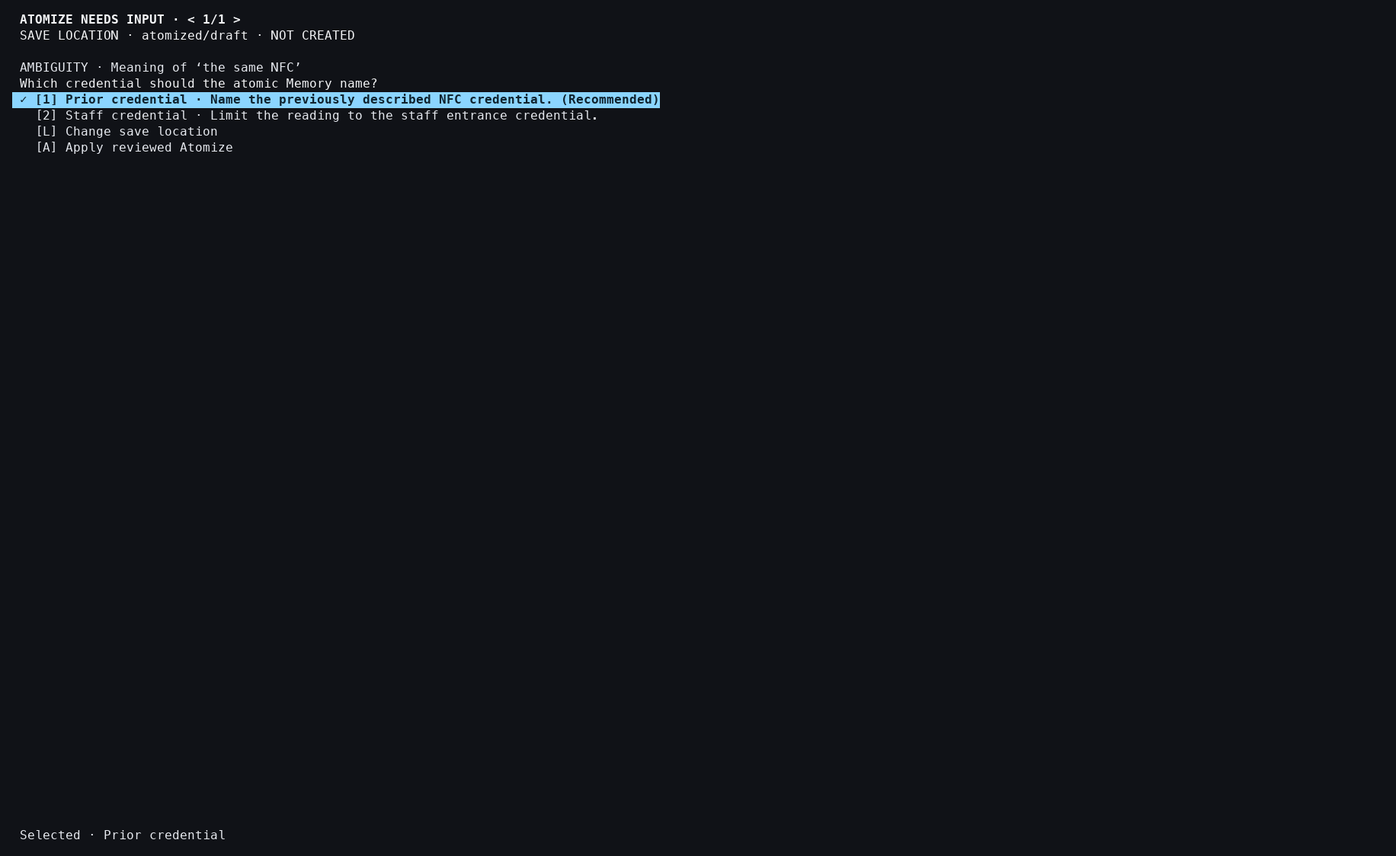
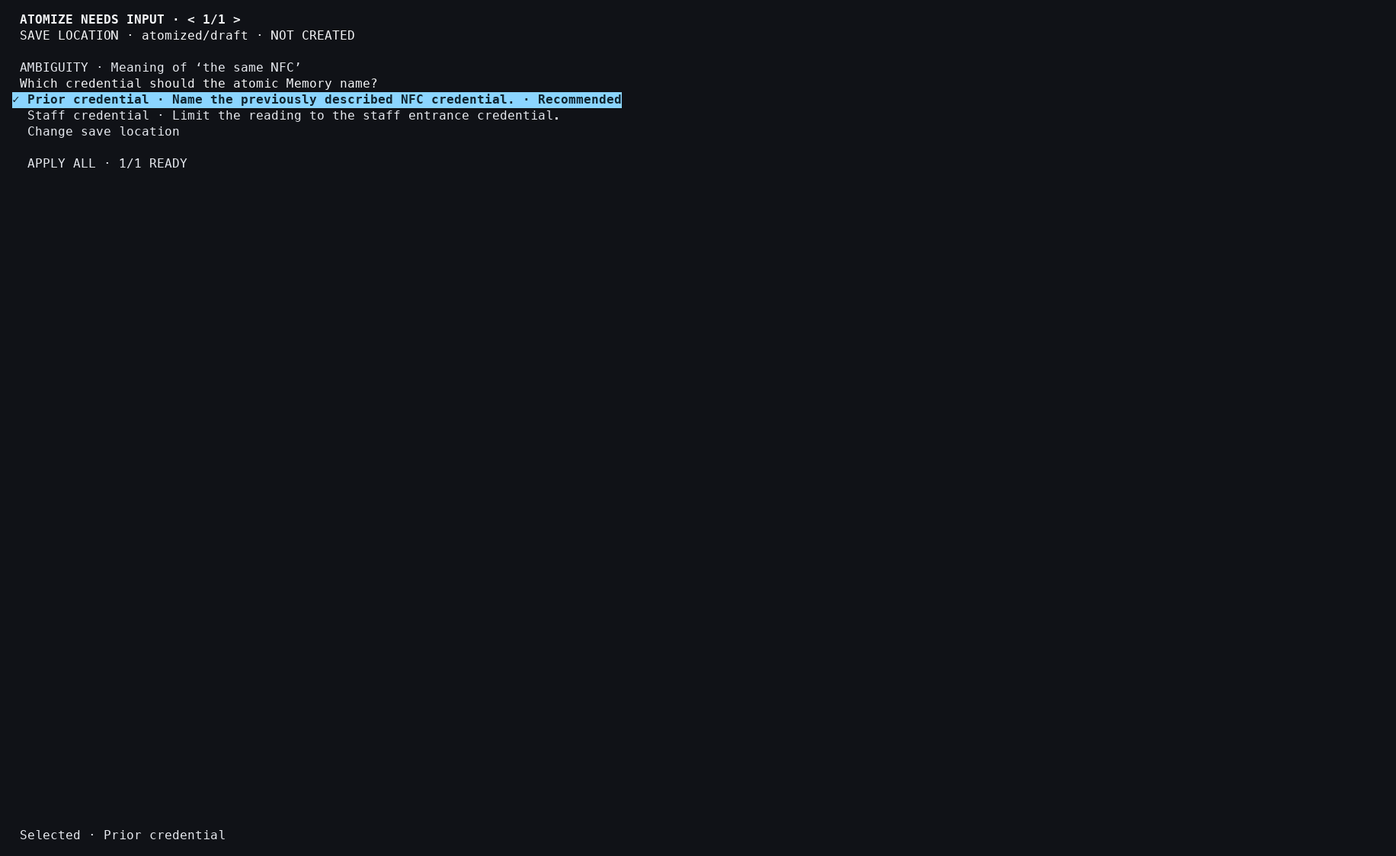
Complete Enter-only compact execution integration
The shared compact shell had been reduced to unnumbered arrow/Enter rows, but the Resolution Session caller still supplied removed Defer and exact-command callbacks. Atomize's retained TTY evidence also exercised the obsolete number, L, and A shortcuts, leaving the common behavior inconsistent across consumers.

Remove those stale caller arguments so Meld, Update, Forget, Sever, and Atomize all use the process-local choice path and the separated Apply row as the single confirmation. Record that Resolve follows the same commandless compact boundary, keep legacy Defer/Preserve domain and CLI forms for compatibility, and verify that closing a compact choice does not call the durable draft saver.

Refresh the Atomize Save Location and Apply captures with arrow/Enter-only interaction. Merge and Dedun retain their distinct frozen-case confirmation contract; explicit Review continues to own the retained report.

Changed region(s): [[0.0311, 0.0934, 0.4667, 0.1868]]

diff --git a/tests/test_compact_resolution_shell.py b/tests/test_compact_resolution_shell.py
@@ -6,6 +6,9 @@ from prompt_toolkit.output import DummyOutput
 from memcommit.interfaces.tui.workbenches.resolution.compact_shell import (
     run_compact_resolution_decisions,
 )
+from memcommit.interfaces.tui.workbenches.resolution.session_shell import (
+    run_resolution_workbench_shell,
+)
 from memcommit.interfaces.tui.components.save_location import SaveLocationView
 from memcommit.resolution_workbench import (
     ResolutionItem,
@@ -135,6 +138,26 @@ def test_old_choice_and_action_shortcuts_have_no_compact_action():
         "access": "access:recommended",
     }
     assert actions == []
+
+
+def test_compact_choice_is_discarded_on_close_instead_of_saved_as_a_draft():
+    saved: list[tuple[str, str | None, str]] = []
+
+    with create_pipe_input() as pipe_input:
+        pipe_input.send_text("\x1b[B\r\x1b")
+        action = run_resolution_workbench_shell(
+            _view(),
+            compact_decisions=True,
+            draft_saver=lambda uid, option_uid, comment: saved.append(
+                (uid, option_uid, comment)
+            ),
+            app_input=pipe_input,
+            app_output=DummyOutput(),
+            require_tty=False,
+        )
+
+    assert action.kind == "CLOSE"
+    assert saved == []
 
 
 def test_compact_decisions_edit_the_exact_save_location_inline():

diff --git a/docs/screenshots/atomize-compact-execution-20260822/capture.py b/docs/screenshots/atomize-compact-execution-20260822/capture.py
@@ -111,8 +111,7 @@ def _run_child() -> None:
             build_continue_action=lambda _uid: (
                 ResolutionWorkbenchAction(kind="ACCEPT") if selected else None
             ),
-            build_simple_action=lambda kind: ResolutionWorkbenchAction(kind=kind),
-            continue_label=lambda: "Apply reviewed Atomize",
+            continue_label=lambda: "Apply",
             destination=SaveLocationView(
                 value=destination,
                 state="NOT CREATED",
@@ -196,11 +195,11 @@ def main() -> None:
         _settle(child)
         _snapshot(recorder, "01-entry-compact-decision")
 
-        child.send("1")
+        child.send("\r")
         _settle(child)
         _snapshot(recorder, "02-choice-staged")
 
-        child.send("l")
+        child.send("\x1b[B" * 2 + "\r")
         _settle(child)
         _snapshot(recorder, "03-save-location-input")
 
@@ -212,7 +211,7 @@ def main() -> None:
         _settle(child, seconds=0.8)
         _snapshot(recorder, "05-updated-location-compact-return")
 
-        child.send("a")
+        child.send("\x1b[B" * 3 + "\r")
         _settle(child, seconds=0.8)
         _snapshot(recorder, "06-applied-receipt")
 

diff --git a/memcommit/interfaces/tui/workbenches/resolution/session_shell.py b/memcommit/interfaces/tui/workbenches/resolution/session_shell.py
@@ -5012,9 +5012,7 @@ def run_resolution_workbench_shell(
             selected_option=selected_compact_option,
             stage_option=stage_compact_option,
             build_continue_action=compact_continue_action,
-            build_simple_action=lambda kind: semantic_action(kind),
             continue_label=compact_continue_label,
-            turn_command_review=turn_command_review,
             destination=destination,
             app_input=app_input,
             app_output=app_output,

diff --git a/docs/operation-consistency-matrix.md b/docs/operation-consistency-matrix.md
@@ -108,8 +108,8 @@ candidate list does not yet prove that a contract is inapplicable.
 | `EFFECT-01` | Receipt, checkpoint, operation-unit Undo/Redo, and rollback | `SHARED CONTRACT` with explicit applicability | add, atomize, branch, checkout -b, chunk, clear, delete, distill Apply, edit, embed, forget Apply, ground edits, import, init, meld Apply, merge, reference, replace, revert, sever Apply, translate materialization, update Apply; plus profile/config/protection mutations requiring a documented non-Undo boundary | A success receipt covers the complete command effect; multi-Context effects form one unit; failed publication exposes no partial success; Undo support or exclusion is explicit | Checkpoint payload, crash-recovery mechanism, irreversible external effect, and whether an operation is intentionally outside Undo | Semantic Apply Undo rationale and several vertical slices; Replace verifies atomic multi-Context publication and one operation UID across every per-Context checkpoint, with rollback on late write failure. Atomize in-place verifies one-checkpoint Undo/Redo, synchronous receipt compensation, late success, and exact interrupted recovery. Ground workspace genesis is an atomic six-Context require-new batch and intentionally outside both Undo stacks. Later Ground edits share one root-scoped command identity; local LIFO Undo restores the touched lane plus root, rejects drift, advances revision, and is excluded from global `mem undo` | `MIGRATING` | Decide Ground-local redo and complete the repository-wide durable-write/crash-window inventory |
 | `TUI-01` | Endpoint setup and frozen operation shape | `SHARED MECHANICS` | atomize, audit, compare, embed, meld, merge, sever, update; investigate branch, check-conformance, distill, forget, query, search, and translate where they select multiple roles or modes | One visible role-based setup; selection returns process-local typed values only; setup performs no provider call or durable mutation; final operation validation remains authoritative | Role symmetry/direction, selectable catalog, independent per-role range/memory focus, fixed endpoint, fresh result name, and modes | Merge, Audit, Compare, Update, and Meld use `interfaces.tui.components.endpoint_setup`. Meld verifies mode-dependent A+B→C/A→B roles, exact direct-Memory focus, independent descendant reach, and a confirmed process-local new Result name without provider, session, or durable creation | `MIGRATING` | Remove the shared screen's remaining `commands.tui_primitives` dependency, then characterize Atomize without changing its measured Study flow |
 | `TUI-02` | Selection, focus topology, back navigation, and writable-input protection | `SHARED MECHANICS` | Every interactive operation: atomize, audit, branch, checkout, compare, delete, diff, distill, elaborate, embed, eval, find, fit, forget, ground, help, impact, import, init, meld, merge, profile, provider, query, rationale, reference, replace, revert, review, search, sever, share, summarize, switch, trace, translate, update, plus interactive variants discovered by the callable catalog | Shared focus controller reports movement/boundary/consumption; Escape has an operation-owned exit path; Backspace is not stolen from writable input; visible frame order determines traversal | Surface topology, defaults, labels, operation actions, and editor validation | Shared core, frame, focus, scroll, input, choice, targeting, and selection owners are inventoried below. Find and Replace compose the shared Context range, horizontal choice, frame, and surface-focus mechanics without adding command-local variants. The full Context picker now has one neutral implementation used by Switch, operation-owned Context browsing, Ground direct selection, and command-hosted consumers; Switch-specific selection-to-request translation lives in its interface adapter. Several unrelated command-hosted screens still remain | `MIGRATING` | Complete the prompt-toolkit application/import inventory, then retire parallel mechanics by component family rather than by visual resemblance |
-| `TUI-03` | Execution decision workbench | `SHARED MECHANICS` + `OPERATION OWNED` semantic projection | atomize, forget, meld, merge, sever, update, and dedun; Audit/Impact/Review use read-only or adaptive report variants | An execution route shows only the frozen context and controls needed for outstanding judgments; `Left`/`Right` permits out-of-order issue navigation, `Up`/`Down` exposes the keyboard target, `Enter` or `1`–`9` stages choices, and one Continue may submit the complete staged set; Apply revalidates that exact set and success exits to a compact receipt | Detail or compact context, issue/conflict types, choices, typed recommendation, defaults, custom-response permission, whole-set strategy, Apply effect, and saved schema | The [execution lifecycle](execution-receipt-review-lifecycle-design-rationale.md) and [180×52 compact-decision capture](screenshots/compact-execution-decisions-20260822/README.md) verify the shared report-free surface for Update/Forget/Meld/Sever, including arrow-only staging, numeric acceleration, aggregate Continue, exact-command review, and provider-free Defer. Decision-free local routes auto-advance under the ownership-aware policy. Terminal report viewing is routed through explicit Impact/Review instead of reopening the execution workbench after success | `MIGRATING` | Move remaining legacy response persistence out of Review and prohibit success paths from rendering the full execution report |
-| `TUI-04` | Exact command review | `SHARED CONTRACT` + `SHARED MECHANICS` | dedup, edit, embed, ground, import, meld START/TURN, merge, reference, replace, resolve, sever START/TURN, update START/TURN, Profile rename/removal; Search SHOW is a receipt-only read action | One interface-neutral immutable argv/effects value and one escaped renderer; a consequential command uses focused `Enter`, cancellation publishes no command effect, and typing in an editable command is a separate non-approving setup change | Ground and Search dispatch allowlisted argv; deterministic mutations apply an adjacent frozen typed plan/action; semantic START returns typed setup and TURN executes a revision-bound response without shell recursion; Edit and Embed map the common always-editable argument field bidirectionally to visible controls while keeping the operation prefix fixed; final Meld/Update/Sever Apply and Summarize/Distill/Atomize remain commandless | [Consumer-boundary rationale](exact-command-review-consumer-boundary-design-rationale.md), [interactive semantic command rationale](interactive-semantic-command-boundary-design-rationale.md), and [editable proposed-command rationale](editable-proposed-command-design-rationale.md); type identity, compact rendering, rebuilding, stale-session rejection, execution binding, cancellation, deterministic Apply, and receipt-only Search SHOW are verified | `VERIFIED` | Keep the global role/binding/rebuild classification authoritative; require an operation adapter and adjacent typed execution boundary before admitting another consumer |
+| `TUI-03` | Execution decision workbench | `SHARED MECHANICS` + `OPERATION OWNED` semantic projection | atomize, forget, meld, resolve, sever, update, plus the separate merge and dedun deterministic variants; Audit/Impact/Review use read-only or adaptive report variants | An execution route shows only the frozen context and controls needed for outstanding judgments; `Left`/`Right` permits out-of-order issue navigation, `Up`/`Down` exposes the keyboard target, and `Enter` selects or activates one separated Apply row. Typed recommendations are checked defaults, numeric choice keys are inert, close saves no new draft, and Apply revalidates the exact process-local set before a compact receipt | Detail or compact context, issue/conflict types, choices, typed recommendation, defaults, custom-response permission, whole-set strategy, Apply effect, and saved schema | The [execution lifecycle](execution-receipt-review-lifecycle-design-rationale.md) and [180×52 compact-decision capture](screenshots/compact-execution-decisions-20260822/README.md) verify the shared report-free surface for Update/Forget/Meld/Sever/Atomize/Resolve, including arrow-only staging, typed defaults, a visually separated Apply, no direct Apply/Defer rows, no saved close draft, and no redundant exact-command confirmation. Decision-free local routes auto-advance under the ownership-aware policy. Terminal report viewing is routed through explicit Impact/Review instead of reopening the execution workbench after success | `MIGRATING` | Keep Merge/Dedun's frozen-case variant separate until its exact-review and bulk-choice contract is deliberately migrated; prohibit success paths from rendering the full execution report |
+| `TUI-04` | Exact command review | `SHARED CONTRACT` + `SHARED MECHANICS` | dedup, edit, embed, ground, import, meld START/TURN, merge, reference, replace, sever START/TURN, update START/TURN, Profile rename/removal; Search SHOW is a receipt-only read action | One interface-neutral immutable argv/effects value and one escaped renderer; a consequential command uses focused `Enter`, cancellation publishes no command effect, and typing in an editable command is a separate non-approving setup change | Ground and Search dispatch allowlisted argv; deterministic mutations apply an adjacent frozen typed plan/action; semantic START returns typed setup and TURN executes a revision-bound response without shell recursion; Edit and Embed map the common always-editable argument field bidirectionally to visible controls while keeping the operation prefix fixed; Resolve and final Meld/Update/Sever/Atomize Apply use their separated compact Apply row instead of this second screen | [Consumer-boundary rationale](exact-command-review-consumer-boundary-design-rationale.md), [interactive semantic command rationale](interactive-semantic-command-boundary-design-rationale.md), and [editable proposed-command rationale](editable-proposed-command-design-rationale.md); type identity, compact rendering, rebuilding, stale-session rejection, execution binding, cancellation, deterministic Apply, and receipt-only Search SHOW are verified | `VERIFIED` | Keep the global role/binding/rebuild classification authoritative; require an operation adapter and adjacent typed execution boundary before admitting another consumer |
 | `TUI-05` | Semantic/read-only Viewer, clipboard, and result verification | `SHARED MECHANICS` | compare, diff, find, help detail, impact (including Distill/Elaborate), query, review reports (including applied Distill/Elaborate), search, show, summarize, trace; Resolution operations reuse only the compatible Viewer layer | Viewer belongs to explicit report inspection, Impact, or post-application Review; completing an executable request never opens it solely because stdout is a TTY. Neutral report chrome, deterministic copy, bounded windows, and read-only exit remain shared | Typed document/detail model, citations, exact spans, page size/eligibility, verification state, lineage/diff semantics, source-member grouping, and copy scope exposed by the operation | Query and provider-free Find retain their typed result behavior. Distill and Elaborate use the shared Viewer under explicit Impact and checkpoint-backed Review. Compare returns an analysis receipt and Trace returns a lineage receipt by default; their full Viewer/document routes remain explicit through Review, `--snapshot`, `--plain`, or `--tui` as applicable | `MIGRATING` | Audit remaining direct commands for TTY-only result transitions while retaining explicit report-inspection routes |
 | `HELP-01` | Stable operation discovery and interface-specific syntax | `SHARED CONTRACT` + `SHARED MECHANICS` | All 62 operations | One canonical summary/flow/execution/effect/range/use-when record plus optional typed details with stable operation-local IDs; CLI, TUI, Python, and agent projections do not invent semantic meaning | CLI flags/forms and detail layout, runtime authority/cache receipts, detailed algorithms, and operation rationale | The 62-entry Help catalog has complete structural coverage and one Store/provider-free application boundary for operation list/describe and detail list/describe. Add and Init provide comparison details; Import and Query provide typed limitation/access details. Plain/TUI Help, immutable Python DTOs, and the version-1 agent/MCP Help tool share those values; successful machine calls report `effect: NONE`. Final human English/Korean wording review remains separate | `VERIFIED` | Keep catalog and adapter coverage closed while completing per-operation wording review |
 | `GUIDANCE-01` | Cross-interface operation selection guidance | `SHARED CONTRACT` + interface projection | Every operation exposed through agent/MCP discovery or a companion Skill; first detailed vertical slices: Add and Query | A one-to-one tool obtains `use_when` and compact detail references through the public Help boundary; a composite tool owns one reviewed composite trigger; MCP preserves triggers and detail indices as metadata, exposes only `TOOL_SELECTION` summaries in initial prose, and leaves full payloads to exact Help lookup; a Skill carries its trigger in frontmatter and may name a stable detail ID | Host rendering and metadata support, Skill procedure and exclusions, and operations that need no typed detail | All twenty default registry tools expose nonblank frozen `use_when`; SDK-independent and official-v2 MCP paths preserve use-when plus typed detail metadata. Add `copy-or-link` and Query `query-only-access` appear during tool selection; Init and Import remain on-demand. Public/agent exact lookup, registry validation, Skill, MCP projection, and in-memory client tests protect the slice | `CHARACTERIZED` | Add a typed detail only for a demonstrated ambiguity or boundary; do not create a free-form notes channel |
@@ -132,7 +132,7 @@ provisional status, parity evidence, and no unrecorded parallel owner.
 | `TUI-C13` | Compact paged results | `interfaces.tui.components.paged_result` | Provider-free Find is the first vertical consumer | One frozen cardinality drives focused row, fixed discrete page range, `SHOWING a–b OF total`, wrapped complete row rendering, Up/Down row movement, Left/Right and PageUp/PageDown page movement, Home/End boundaries, shared blue focus, and a primary-screen non-erasing close | Row meaning, page-size and row-window-height choices, eligibility, header/count vocabulary, complete copy, and application result stay operation-owned; `--plain` and `--all` bypass the interactive shell | `PROVISIONAL` | Admit a second consumer only when it already has a complete frozen ordered result and the same primary-screen navigation contract; do not turn the component into retrieval or semantic evidence state |
 | `TUI-C04` | Context targeting and generic selection | `memcommit.context_targeting.tui` and `memcommit.selection.tui` | Add, Context Init, Distill, Embed, Query, Summarize, Endpoint Setup, Switch, Ground Save Location and workspace navigation, Context browsing, Memory reports, Find, Search, and the migrated command-hosted operations | Context tree, exact/descendant reach, checked selection, exact direct-name input, transient Profile/multiple Browse, lazy direct-item preview, direct-Memory target identity, common selection rendering, and picker clipboard preserve typed state contracts | Readable catalogs, authority, role availability, defaults, materialization meaning, clipboard scope, and executable receipts remain operation-owned. Find and Search share compact Scope mechanics but retain distinct request defaults and result models. Ground New uses the shared parent locator only to compose an uncreated exact root, while its navigator projects the real fixed workspace plus local `/contexts` descendants and changes only its process-local active surface; Switch alone maps a selection to global current | `MIGRATING` | Audit exact empty/Grant/query-only variants and remaining targeting facades |
 | `TUI-C05` | Endpoint Setup | `interfaces.tui.components.endpoint_setup` | Merge, Audit, Compare, Update, and Meld; Meld adds tested mode-dependent roles and confirmed new Result naming | Modes and named roles produce one process-local typed draft; fixed roles, independent per-role descendant reach, exact direct-Memory focus, and confirmed-but-uncreated names are visible; an optional START command is rebuilt from the validated draft and again at focused Enter; cancellation performs no provider call or durable write | Authority, caller-owned projection loading, command grammar, name validation, plan preparation, cache/session identity, and Apply remain outside the component; its legacy command path is an import-only facade | `CHARACTERIZED` | Extend only through the interface owner and keep operation-specific authority/cache/Apply policy outside the component |
-| `TUI-C06` | Exact command review | `interfaces.tui.components.exact_command_review` | Dedup, Edit, Embed, Merge, Reference, Replace, Resolve, Ground/Profile command screens, semantic Endpoint Setup and Resolution Session turns | One immutable argv/effects identity and one escaped projection back to focused Enter approval; cancellation publishes no command effect | Allowlisted dispatch, adjacent frozen plans, semantic START receipts, revision-bound TURN execution, and application policy remain operation-owned; Search SHOW is receipt-only and final semantic Apply can be commandless | `VERIFIED` | Require the same consumer audit before admitting another operation |
+| `TUI-C06` | Exact command review | `interfaces.tui.components.exact_command_review` | Dedup, Edit, Embed, Merge, Reference, Replace, Ground/Profile command screens, semantic Endpoint Setup and explicit Resolution Session turns | One immutable argv/effects identity and one escaped projection back to focused Enter approval; cancellation publishes no command effect | Allowlisted dispatch, adjacent frozen plans, semantic START receipts, revision-bound explicit TURN execution, and application policy remain operation-owned; Search SHOW is receipt-only, while Resolve and final semantic compact Apply use no second command screen | `VERIFIED` | Require the same consumer audit before admitting another operation |
 | `TUI-C11` | Editable proposed command | `interfaces.tui.components.exact_command_review` | Edit and Embed are vertical consumers; the form/draft/editor model is operation-neutral | The operation prefix is a fixed prompt outside the one-line argument draft; complete valid edits synchronize process-local controls, invalid input changes no checked value, and focused Enter approves only the runnable synchronized command | Each operation owns its grammar, frozen catalogs, semantic validation, all-or-none control adapter, and whether changing argv requires rebuilding a deterministic or provider-backed plan | `PROVISIONAL` | Add only setup flows whose complete argv can be mapped back to visible controls without provider work or hidden durable state; frozen-plan reviewers require an explicit replan contract |
 | `TUI-C12` | Interactive command surface classification | `memcommit.interactive_command` | Meld, Update, and Sever START/TURN/final Apply; explicit NONE records for Summarize, Distill, and Atomize | START is portable and draft-rebuilt; TURN is session-revision-bound and rebuilt from draft plus saved revision; final Apply and excluded bounded transforms are explicitly commandless | Public argv grammar, provider behavior, response schema, opaque revision calculation, typed execution, Apply, and receipts remain operation-owned | `VERIFIED` | Add a surface only with an explicit role, binding, approval, rebuild rule, Help projection, and operation evidence registration |
 | `TUI-C07` | Semantic and read-only viewers | `interfaces.tui.viewers.semantic` and `.read_only` | Distill, Elaborate, Summarize, Merge, and Trace use the common Viewer owner; Compare and Share retain compatible command-hosted consumers; Fit and Rationale deliberately return compact receipts instead | Neutral report chrome, Memory styling, focus anchoring, scrolling, formatted semantic tokens, and deterministic focused/whole-document copy are shared mechanics | Typed documents, citations, evidence linkage, verification vocabulary, relation grouping, lineage/diff meaning, bounds, and copyable semantic scope remain operation projections | `MIGRATING` | Use the ordered terminal evidence while building the remaining operation-by-operation viewer/copy matrix |

diff --git a/docs/exact-command-review-consumer-boundary-design-rationale.md b/docs/exact-command-review-consumer-boundary-design-rationale.md
@@ -48,7 +48,7 @@ typing or synchronization alone never applies work. See the
 | Reference | Focused `Enter` on the reviewed immutable copy command | Applies the adjacent frozen Source/Target snapshot |
 | Merge | Focused `Enter` through the plan review or common Resolution workbench | Applies the same `FrozenMergePlan` and, for conflicts, the reviewed resolution set |
 | Replace | Focused `Enter` on the exact digest-bound replacement plan | Applies the same complete frozen multi-Context plan |
-| Dedup and Resolve | Focused `Enter` through the deterministic Resolution workbench | Applies the reviewed frozen case without introducing a semantic turn |
+| Dedup | Focused `Enter` through the deterministic Resolution workbench | Applies the reviewed frozen case without introducing a semantic turn |
 | Meld, Update, and Sever setup | Focused `Enter` on a rebuilt `START` command | Returns the same typed setup receipt to the owning application boundary; analysis/session start occurs in process and final Apply remains separate |
 | Meld, Update, and Sever semantic/session turns | Focused `Enter` on a rebuilt `TURN` command | Executes the same typed response against the displayed `--expect-session` revision; it rebuilds review state and never performs final Apply |
 | Find SHOW | None: this is a receipt for the read-only action authorized by the submitted Find turn | Immediately dispatches only `mem show UID --context NAME` without a shell and leaves Find results and durable Context state unchanged |
@@ -58,6 +58,13 @@ person can trace what ran.  Labeling it as receipt-only is important: adding an
 approval prompt would turn an already-submitted read request into a redundant
 second confirmation, while treating it as a mutation approval would overstate
 its effects.  The allowlist and actual-output receipt are its safety boundary.
+
+Verified-plan Resolve and the shared semantic compact execution shell do not
+consume this component. Their selected, revision-bound plan remains adjacent
+to a separated Apply row; Enter on that row is the sole approval, followed by
+the operation's normal freshness validation. The compatibility
+`resolve_candidate_exact_review` value remains available to non-compact
+callers, but the terminal compact route does not insert it as a second screen.
 
 Semantic-session commands are a deliberately narrower use of this value. The
 global START/TURN/NONE classification, revision binding, rebuilding rule, and

diff --git a/docs/execution-receipt-review-lifecycle-design-rationale.md b/docs/execution-receipt-review-lifecycle-design-rationale.md
@@ -61,17 +61,22 @@ surface rather than embedding the complete Impact document above its controls.
 The surface shows one issue's kind, title, question, and operation-authored
 choices at a time. `Left`/`Right` wraps across issues, so the person may answer
 them in any order; it is not a forced one-item wizard. `Up`/`Down` moves the
-visible keyboard target, `Enter` stages that row, and `1` through `9` are direct
-choice accelerators. The blue target makes arrow movement visible, while `✓`
-is the complete non-color channel for a staged value.
+visible keyboard target, and `Enter` stages that row. Number keys are inert so
+issue ordinals cannot be mistaken for a second choice grammar. The blue target
+makes arrow movement visible, while `✓` is the complete non-color channel for
+a selected value.
 
-Staging is process-local or saved through the operation's existing draft port.
-It does not call a provider or mutate a Context. One Continue action may submit
-all staged required choices together. `D` remains a first-class Defer action,
-and a consequential semantic turn still receives the adjacent exact-command
-review required by its operation. The compact surface may mark
-`(Recommended)` only when the operation's typed option identity or label says
-so; choice order alone is not a recommendation.
+New compact staging is process-local and closing does not save it through an
+operation draft port. It does not call a provider or mutate a Context. A blank
+line separates the current issue's choices from one navigable
+`APPLY ALL · n/n READY` row; Enter there consumes the complete selected set
+without an `A` shortcut or a second exact-command confirmation. Defer and
+Preserve-all remain compatible domain/CLI actions where an operation already
+supports them, but they are not compact decision rows. The surface selects and
+marks `· Recommended` only when the operation's typed option identity or label
+says so; choice order alone is not a recommendation. Existing durable
+responses may still seed a resumed operation, but compact edits remain
+ephemeral until the operation consumes them.
 
 The complete report remains durable. Execution receipts name the exact Impact
 or Review route that opens it, but execution itself does not render the report

diff --git a/docs/screenshots/atomize-compact-execution-20260822/README.md b/docs/screenshots/atomize-compact-execution-20260822/README.md
@@ -20,12 +20,12 @@ and Sever.
 
 | Image | Input since preceding image | Visible state | Durable mutation |
 | --- | --- | --- | --- |
-| `01-entry-compact-decision.png` | Launch | One Atomize ambiguity decision; retained report absent; exact Output visible | None |
-| `02-choice-staged.png` | `1` | Recommended reading receives the durable `✓` selection marker | Draft selection only |
-| `03-save-location-input.png` | `L` | Shared exact one-line Save Location input replaces the decision body | None |
+| `01-entry-compact-decision.png` | Launch | One Atomize ambiguity decision; typed Recommended reading already checked; retained report absent; exact Output visible | None |
+| `02-choice-staged.png` | `Enter` | The Recommended reading remains checked for this execution only | None |
+| `03-save-location-input.png` | `Down`, `Down`, `Enter` | Arrow-only navigation opens the shared exact one-line Save Location input | None |
 | `04-invalid-location-retained.png` | replace with `wrong/place`, `Enter` | Operation validator rejects the name without closing the editor | None |
 | `05-updated-location-compact-return.png` | replace with `atomized/final`, `Enter` | Controller accepts the process-local destination change and returns to the compact decision | Destination plan only |
-| `06-applied-receipt.png` | `A` | Compact Atomize receipt identifies Source, Output, checkpoint, and retained Review route | Output checkpoint (fixture receipt) |
+| `06-applied-receipt.png` | `Down` ×3, `Enter` on separated Apply | Compact Atomize receipt identifies Source, Output, checkpoint, and retained Review route; no second confirmation appears | Output checkpoint (fixture receipt) |
 | `07-read-only-verification.png` | `V` | Read-only verification shows the reviewed choice, final Output, zero required findings, and no additional provider turn | None |
 
 Backspace and printable-key behavior inside the exact name field, invalid-name

diff --git a/docs/mem-meld-design-rationale.md b/docs/mem-meld-design-rationale.md
@@ -1544,12 +1544,11 @@ receipt outside a TTY. In a terminal, unresolved judgments open the shared
 compact decision surface, not the complete report Viewer. `Left`/`Right`
 navigates issues in either order, `Up`/`Down` exposes the current row target,
 and `Enter` alone stages a choice or activates Apply. Choices are unnumbered;
-numeric keys may remain undisclosed choice accelerators, and `L` may open the
-same visible Location row without becoming a printed grammar. The former
-direct `A`, `D`, and `P` actions are inert. A unique typed recommendation may
-start checked process-locally, new compact choices are not saved as drafts on
-close, and the separate Apply row submits the complete ready vector without a
-second review screen. Explicit `--defer-all` and `--preserve-all` CLI forms
+numeric keys and the former direct `L`, `A`, `D`, and `P` actions are inert. A
+unique typed recommendation may start checked process-locally, new compact
+choices are not saved as drafts on close, and the separate Apply row submits
+the complete ready vector without a second review screen. Explicit
+`--defer-all` and `--preserve-all` CLI forms
 remain compatible for scripts and saved-session recovery. The report remains
 available through the receipt's exact `mem impact meld --session UID` route;
 `--expand ISSUE` is an explicit detailed projection.
